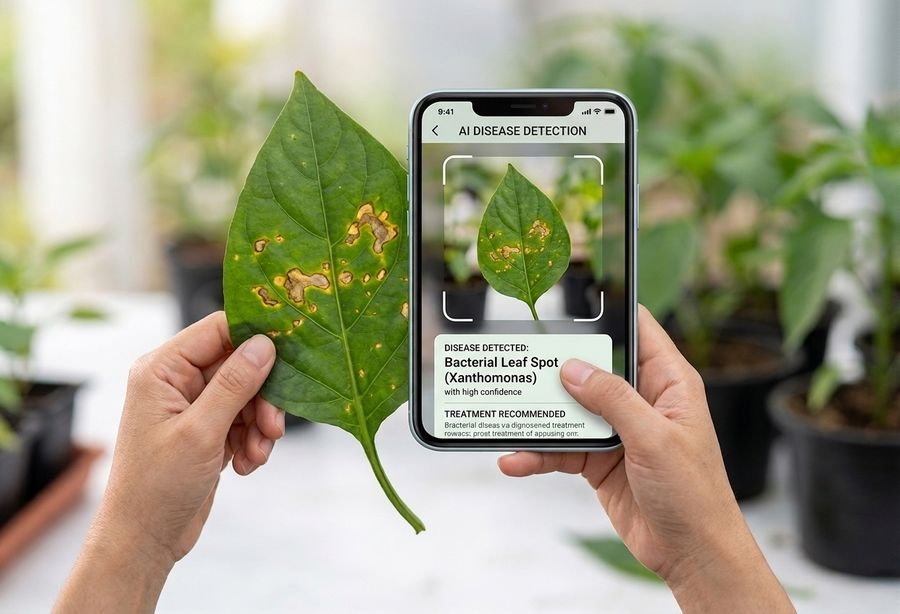
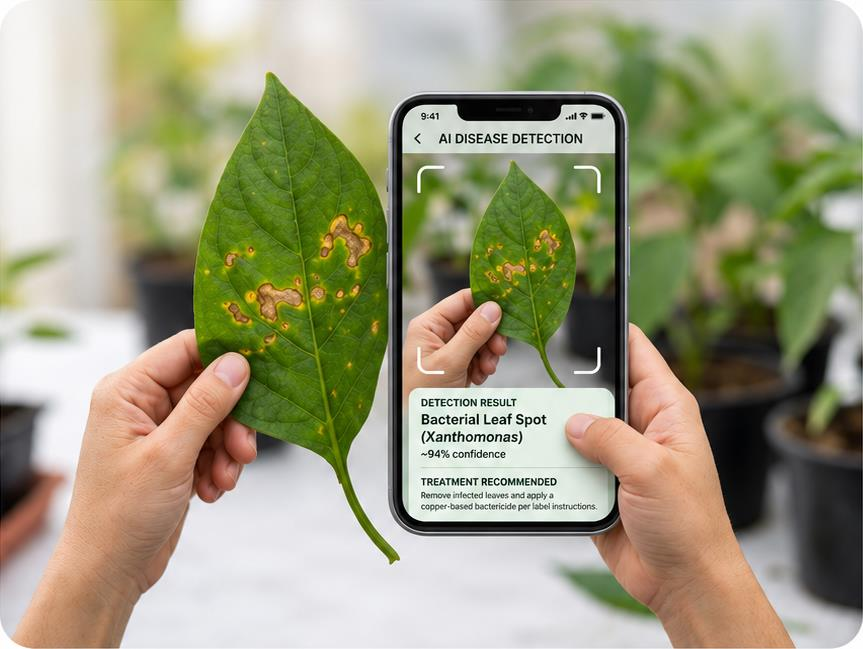
updated name and picture

diff --git a/index.html b/index.html
@@ -372,7 +372,7 @@
       </div>
       <div class="team-card">
         <div class="team-avatar">IoT</div>
-        <h4>Cydeen Cabrillas</h4>
+        <h4>Cydeen Princess T. Cabrillas</h4>
         <div class="role">Back-end &amp; IoT Developer</div>
         <div class="note">Sensors, integration &amp; API</div>
       </div>
@@ -450,7 +450,7 @@
         <h5>Development Team</h5>
         <ul>
           <li><a href="#about">Edmark O. Basaya — Mobile</a></li>
-          <li><a href="#about">Cydeen Cabrillas — IoT</a></li>
+          <li><a href="#about">Cydeen Princess T. Cabrillas — IoT</a></li>
           <li><a href="#about">John Christian F. Base — Frontend</a></li>
         </ul>
       </div>
